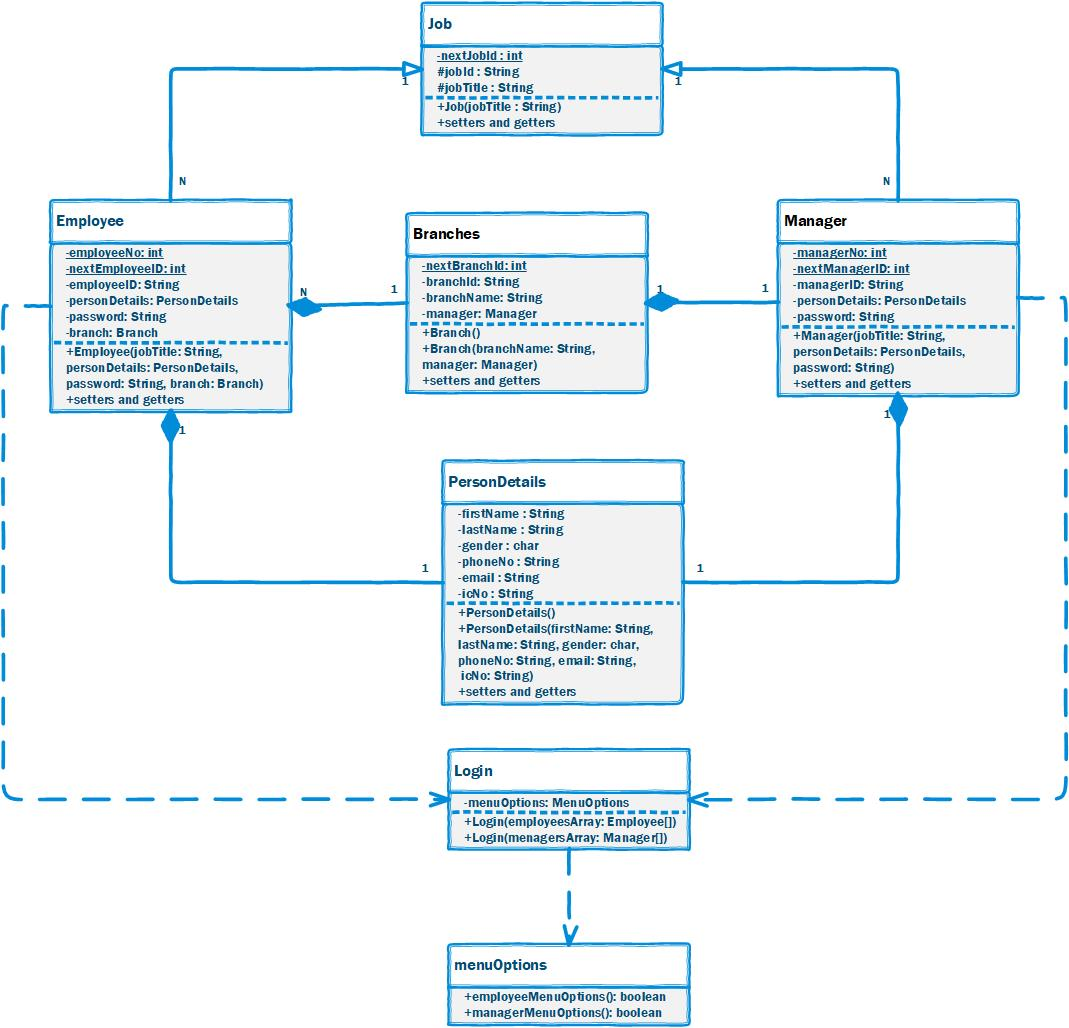
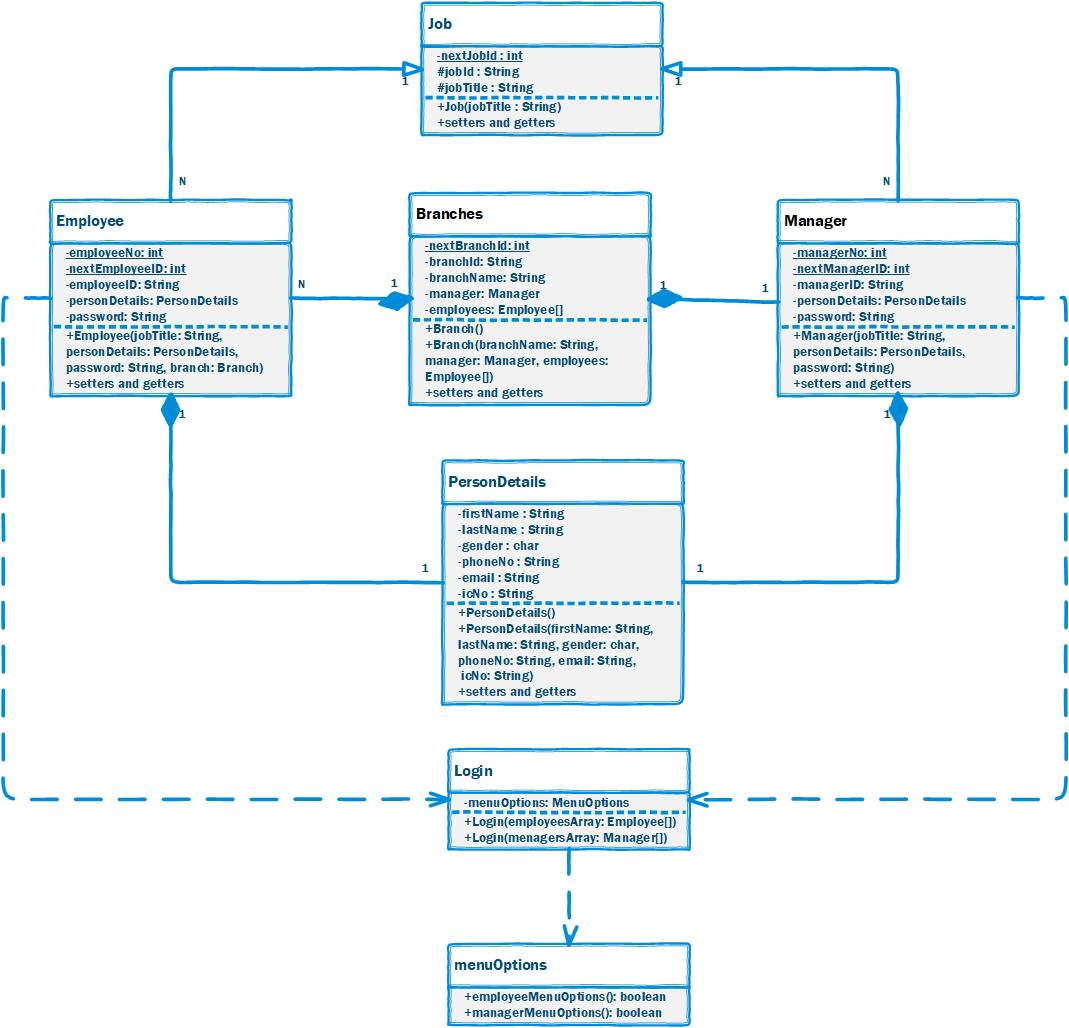
added employee array inside branch class

diff --git a/src/Main.java b/src/Main.java
@@ -1,4 +1,5 @@
 import java.util.Scanner;
+import java.util.ArrayList;
 
 public class Main {
     private static final int max_number = 999;
@@ -14,18 +15,18 @@ public class Main {
         PersonDetails[] person = new PersonDetails[max_number];
         Manager[] managers = new Manager[max_number];
         Branch[] branches = new Branch[max_number];
-        Employee[] employees = new Employee[max_number];
+        Employee[][] employees = new Employee[max_number][max_number];
         Product[] products = new Product[max_number];
 
         person[0] = new PersonDetails("Martin","Gary",'M',"0123456789","mtg@email.com","001230127890");
         managers[0] = new Manager("Manager", person[0], "abc123");
-        branches[0] = new Branch("Petaling Jaya", managers[0]);
+        branches[0] = new Branch("Petaling Jaya", managers[0], employees[0]);
 
         person[1] = new PersonDetails("Gregor","Clegane",'M',"0123226545","gc1@email.com","000123141331");
-        employees[0]= new Employee("Cashier", person[1], "cba321", branches[0]);
+        employees[0][0]= new Employee("Cashier", person[1], "cba321");
 
         person[2] = new PersonDetails("Jon", "Snow", 'M',"01112806671","js1@gmal.com","901011141221");
-        employees[1] = new Employee("Cashier", person[2], "qwe123", branches[0]);
+        employees[0][1] = new Employee("Cashier", person[2], "qwe123");
 
         products[0] = new Product ("Alpo Dog Food","Dog Food", 10,60.00, 10);
         products[1] = new Product ("Pedigree Dog Food","Dog Food", 10,50.00, 10);
@@ -42,11 +43,11 @@ public class Main {
             System.out.print("> ");
 
             empOrManager = scanner.nextInt();
-            Login login = new Login();
 
             switch (empOrManager) {
                 case 1:
-                    loginSuccess = login.employeeLogin(employees);
+                    Login empLogin = new Login();
+                    loginSuccess = empLogin.employeeLogin(employees);
                     if(loginSuccess) {
                         menu.employeeMenuOptions(products);
                         break;
@@ -54,7 +55,8 @@ public class Main {
                         break;
                     }
                 case 2:
-                    loginSuccess = login.managerLogin(managers);
+                    Login mgrLogin = new Login();
+                    loginSuccess = mgrLogin.managerLogin(managers);
                     if(loginSuccess) {
                         menu.managerMenuOptions();
                         break;

diff --git a/src/Login.java b/src/Login.java
@@ -8,7 +8,6 @@ class Login {
     private MenuOptions menuOptions = new MenuOptions();
     private String username;
     private String password;
-    private int i;
 
     public Login() {
         Scanner scanner = new Scanner(System.in);
@@ -23,16 +22,19 @@ class Login {
         password = scanner.nextLine();
     }
 
-    public boolean employeeLogin(Employee[] employeesArray) {
+    public boolean employeeLogin(Employee[][] employeesArray) {
 
-        for (i = 0; i < Employee.getEmployeeNo(); i++) {
-            if (employeesArray[i].getEmployeeID().equals(username) && employeesArray[i].getPassword().equals(password)) {
-                System.out.println("Log in successful.\n");
-                PersonDetails employeeDetails = employeesArray[i].getPersonDetails();
-                System.out.println("Employee ID: " + employeesArray[i].getEmployeeID() + "\nEmployee Name: " + employeeDetails.getFirstName() + " " + employeeDetails.getLastName());
+        for (int i = 0; i < Branch.getBranchNo(); i++) {
+            for(int j = 0; j < Employee.getEmployeeNo(); j++ ) {
+                if (employeesArray[i][j].getEmployeeID().equals(username) && employeesArray[i][j].getPassword().equals(password)) {
+                    System.out.println("Log in successful.\n");
+                    PersonDetails employeeDetails = employeesArray[i][j].getPersonDetails();
+                    System.out.println("Employee ID: " + employeesArray[i][j].getEmployeeID() + "\nEmployee Name: " + employeeDetails.getFirstName() + " " + employeeDetails.getLastName());
 
-                return true;
-            } else if (i == Employee.getEmployeeNo() - 1) {
+                    return true;
+                }
+            }
+            if (i == Branch.getBranchNo() - 1) {
                 System.out.println("Wrong username or password.\n");
             }
         }
@@ -42,7 +44,7 @@ class Login {
 
     public boolean managerLogin(Manager[] managersArray){
 
-        for (i = 0; i < Manager.getManagerNo(); i++) {
+        for (int i = 0; i < Manager.getManagerNo(); i++) {
             if (managersArray[i].getManagerID().equals(username) && managersArray[i].getPassword().equals(password)) {
                 System.out.println("Log in successful.\n");
                 PersonDetails managerDetails = managersArray[i].getPersonDetails();

diff --git a/src/Branch.java b/src/Branch.java
@@ -1,21 +1,32 @@
+import java.util.Arrays;
+import java.util.StringJoiner;
+
 class Branch {
     //Variables
+    private static int branchNo = 0;
     private static int nextBranchId = 1;
     private String branchId;
     private String branchName;
     private Manager manager;
+    private Employee[] employees;
 
     //Constructor
     public Branch() {
     }
 
-    public Branch(String branchName, Manager manager) {
+    public Branch(String branchName, Manager manager, Employee[] employees) {
+        branchNo++;
         this.branchId = String.format("B%02d",nextBranchId++);
         this.branchName = branchName;
         this.manager = manager;
+        this.employees = employees;
     }
 
     //Getter
+    public static int getBranchNo() {
+        return branchNo;
+    }
+
     public String getBranchId() {
         return branchId;
     }
@@ -28,6 +39,10 @@ class Branch {
         return manager;
     }
 
+    public Employee[] getEmployees() {
+        return employees;
+    }
+
     //Setter
     public void setBranchName(String branchName) {
         this.branchName = branchName;
@@ -37,13 +52,17 @@ class Branch {
         this.manager = manager;
     }
 
-    //Methods
+    public void setEmployees(Employee[] employees) {
+        this.employees = employees;
+    }
+
     @Override
     public String toString() {
         return "Branch{" +
                 "branchId='" + branchId + '\'' +
                 ", branchName='" + branchName + '\'' +
                 ", manager=" + manager +
+                ", employees=" + Arrays.toString(employees) +
                 '}';
     }
 }

diff --git a/src/Employee.java b/src/Employee.java
@@ -5,16 +5,14 @@ class Employee extends Job {
     private String employeeID;
     private PersonDetails personDetails;
     private String password;
-    private Branch branch;
 
     //Constructor
-    public Employee(String jobTitle, PersonDetails personDetails, String password, Branch branch) {
+    public Employee(String jobTitle, PersonDetails personDetails, String password) {
         super(jobTitle);
         employeeNo++;
         this.employeeID = String.format("S%04d", nextEmployeeID++);
         this.personDetails = personDetails;
         this.password = password;
-        this.branch = branch;
     }
 
     //Getter
@@ -34,9 +32,6 @@ class Employee extends Job {
         return password;
     }
 
-    public Branch getBranches() {
-        return branch;
-    }
 
     //Setter
     public void setPersonDetails(PersonDetails personDetails){
@@ -47,9 +42,6 @@ class Employee extends Job {
         this.password = password;
     }
 
-    public void setBranch(Branch branch) {
-        this.branch = branch;
-    }
 
     @Override
     public String toString() {
@@ -57,7 +49,6 @@ class Employee extends Job {
                 "employeeID='" + employeeID + '\'' +
                 ", personDetails=" + personDetails +
                 ", password='" + password + '\'' +
-                ", branch=" + branch +
                 ", jobTitle='" + jobTitle + '\'' +
                 "} ";
     }

diff --git a/src/SalesOrder.java b/src/SalesOrder.java
@@ -1,5 +1,13 @@
 import java.util.Scanner;
 
+/*2. Implement the salesOrderProcess(), which represent the barcode scanner function that scan the barcode of the
+   product and automatically add the product list on the sales order screen and do the calculation of the products
+   ordered. The function prompts the user for barcode and compare the barcode with the system's product ID code. Then,
+    If the quantity of the product is empty, continue to display the item has no quantity left. Else, if the quantity
+    ordered of the specific product is 0, that element of the array will be shift to most left element which is 0 by now.
+    Then the most left element will be added by 1 to get ready to be occupied by the other non-repeating product. After
+    that, the product quantity will be deducted by 1 and the quantity ordered will be increase by 1. The function will
+    display the products ordered details. Finally, the quantity Ordered will be reset for repeating usage.*/
 class SalesOrder {
 
     public SalesOrder(Product[] products){
